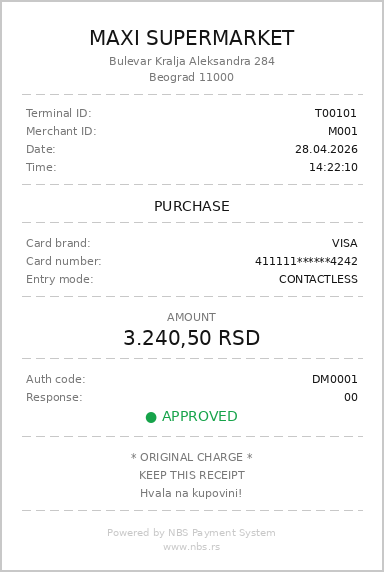
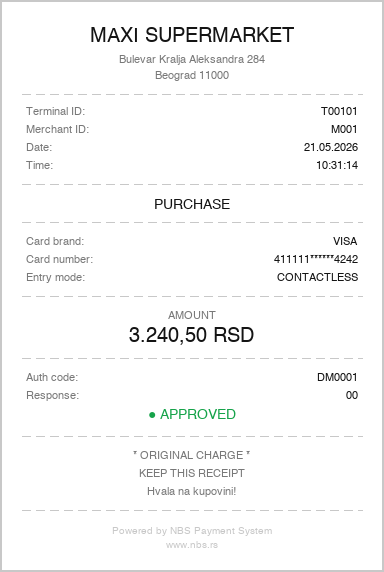
DEMO video

diff --git a/README.md b/README.md
@@ -15,6 +15,12 @@ This project replaces that with a chat interface: the user describes what they w
 
 ---
 
+## Demo video
+
+[Watch the demo](https://wetransfer.com/downloads/115770eecce1f76eab58139d732a0cde20260521111015/b298bb36e0a1cb86d2e012afd6ba3ea620260521111055/26f09d) *(temporary link, valid until May 24 2026 — will be replaced with YouTube)*
+
+---
+
 ## What it does
 
 Users select a role and ask questions in plain language:
